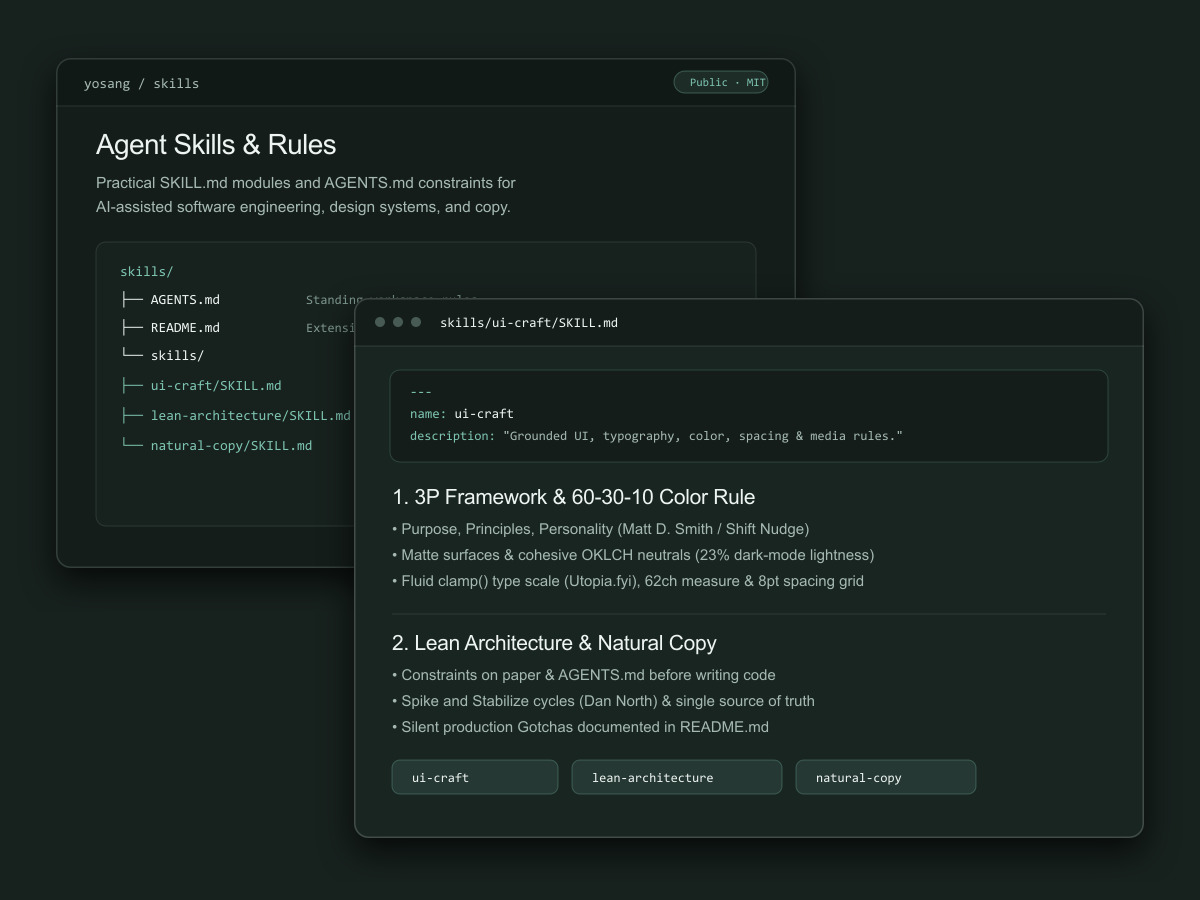
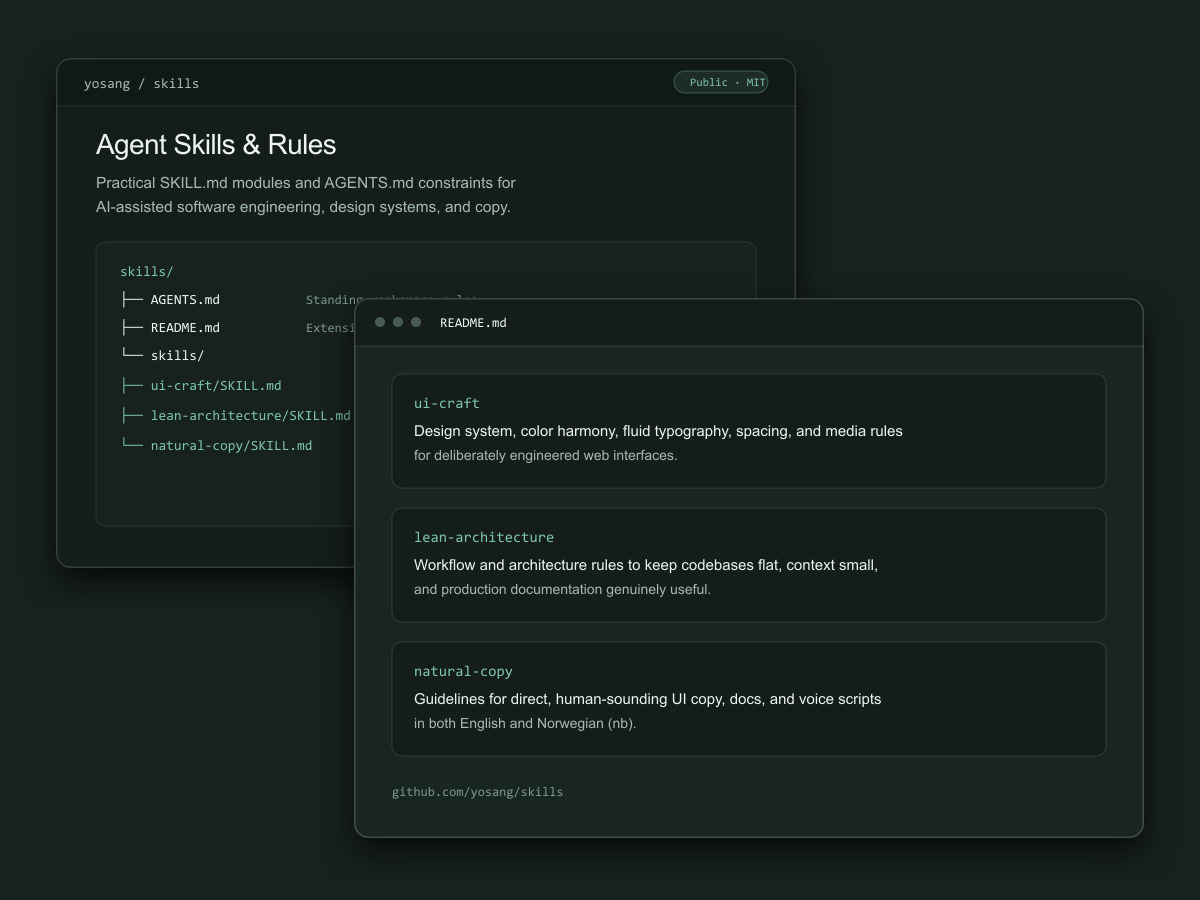
Keep Agent Skills project card concise and leave full details in repo

diff --git a/src/data/projects.ts b/src/data/projects.ts
@@ -157,19 +157,19 @@ const PROJECT_DEFINITIONS: ProjectItem[] = [
     accent: "#1b6b57",
     ground: "#17211e",
     media: {
-      poster: "/projects/skills-poster.jpg?v=sage",
+      poster: "/projects/skills-poster.jpg?v=sage-2",
       alt: "Oversikt over SKILL.md-moduler og AGENTS.md i github.com/yosang/skills.",
     },
-    tags: ["SKILL.md", "AGENTS.md", "3P Framework", "Open Source"],
+    tags: ["SKILL.md", "AGENTS.md", "AI-arbeidsflyt", "Open Source"],
     repoUrl: "https://github.com/yosang/skills",
     subtitle:
-      "Egne SKILL.md-filer og AGENTS.md-regler som styrer arkitektur, UI-håndverk og språk ved AI-assistert utvikling.",
+      "Egne SKILL.md-filer og AGENTS.md-regler for arkitektur, design og språk i AI-assistert utvikling.",
     summary:
-      "Åpent repo med de konkrete kjørereglene jeg bruker når jeg jobber med kodeagenter, delt inn i ui-craft, natural-copy og lean-architecture.",
+      "Åpent repo med kjørereglene jeg bruker når jeg jobber med kodeagenter, samlet i tre moduler som kan brukes på tvers av prosjekter.",
     highlights: [
-      "ui-craft: Låser designvalg til Matt D. Smiths 3P-rammeverk (Purpose, Principles, Personality), 60-30-10-fargeregelen, flytende clamp()-typografi og matte flater uten standard AI-glød.",
-      "lean-architecture: Krever rammer på papir og i AGENTS.md før kode, bygging etter Dan Norths Spike and Stabilize, en enkelt kilde for delte data og dokumentering av tause produksjonsfeller.",
-      "natural-copy: Fjerner fyllord, tankestreker og stive direkteoversettelser i både engelsk dokumentasjon og norsk grensesnitt- og taletekst.",
+      "ui-craft: Faste rammer for fargebruk, typografi, avstander og rolige flater i grensesnittet.",
+      "lean-architecture: Regler for enkel kodebase, kort kontekst, strukturert arbeidsflyt og tydelig dokumentasjon.",
+      "natural-copy: Retningslinjer for naturlig og rett-frem språk i tekst, dokumentasjon og tale.",
     ],
     aiNote:
       "Brukes på tvers av denne porteføljen og andre egne prosjekter.",
@@ -180,7 +180,7 @@ const PROJECT_DEFINITIONS: ProjectItem[] = [
     },
     aiContext: [
       "`skills` (`github.com/yosang/skills`) er mitt åpne GitHub-repo med `SKILL.md`-filer og `AGENTS.md`-regler for AI-assistert programvareutvikling, kompatibelt med verktøy som følger Agent Skills-standarden (Claude Code, Cursor, Antigravity og Gemini CLI).",
-      "Repoet samler erfaringene mine fra blant annet Ember Booking, VGS Bordtennis og denne porteføljen i tre konkrete moduler: `ui-craft` (bygget på Matt D. Smiths 3P-rammeverk Purpose, Principles, Personality, 60-30-10-regelen, flytende `clamp()`-typografi fra Utopia.fyi og matte overflater), `natural-copy` (naturlig språk uten tankestreker, klisjeer og stive direkteoversettelser), og `lean-architecture` (planlegging før kode, Dan Norths Spike and Stabilize, en enkelt kilde for delte data og dokumentering av `Gotchas` som feiler lydløst i produksjon).",
+      "Repoet er delt inn i tre moduler: `ui-craft` (design, farger, typografi og grensesnitt), `lean-architecture` (slank kodebase, kort kontekst og god dokumentasjon) og `natural-copy` (naturlig språk uten fyllord og stive oversettelser). Hvis noen vil se de konkrete reglene i detalj, vis gjerne til selve repoet på `github.com/yosang/skills`.",
     ],
   },
   {
